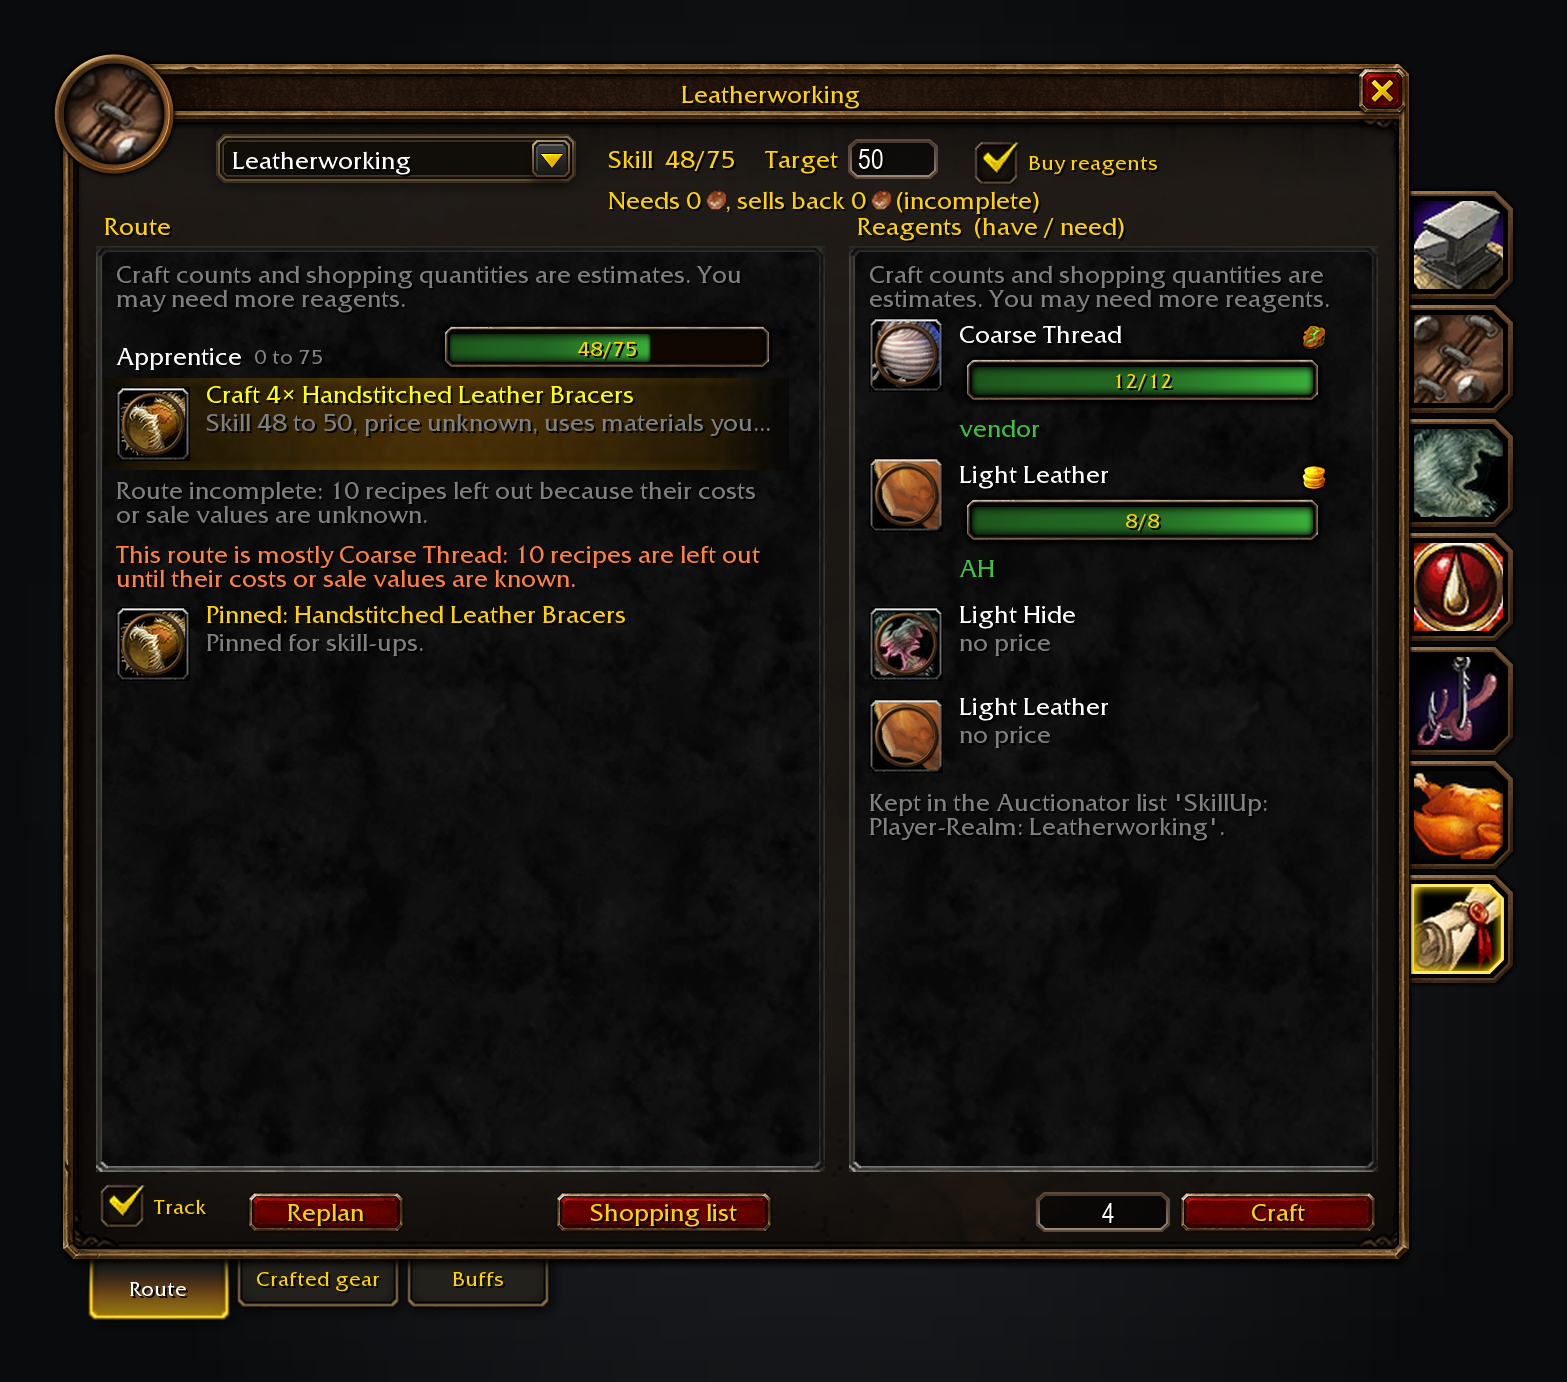
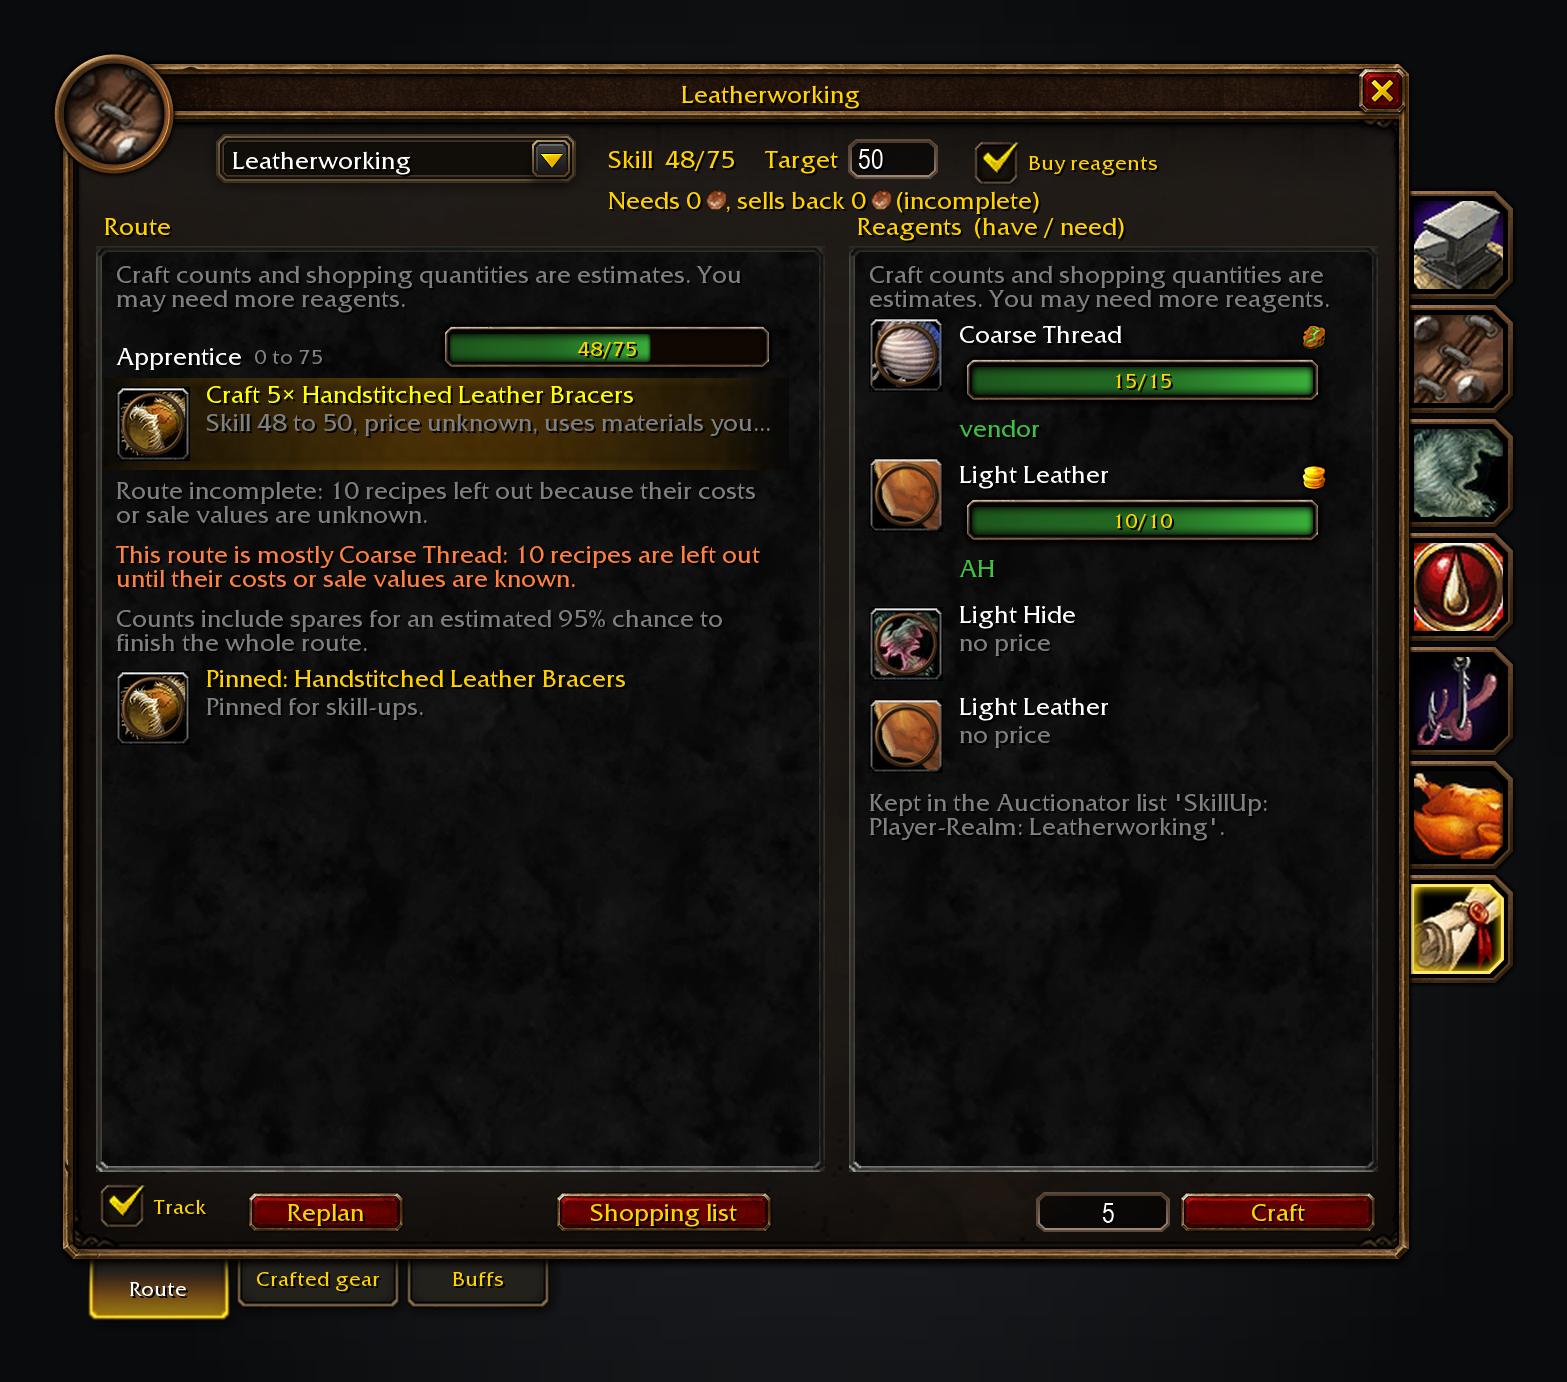
chore: refresh route renders after main merge
Regenerate all screenshot renders and source fingerprints with the pinned
tools. Keep the released settings notes under their release heading.

Changed region(s): [[0.0613, 0.4356, 0.4595, 0.5601], [0.7352, 0.3734, 0.7658, 0.4045]]

diff --git a/CHANGELOG.md b/CHANGELOG.md
@@ -13,8 +13,7 @@ optional `### For addon authors` subsection after a version's player bullets.
 ## [Unreleased]
 
 - **Reagent counts cover the whole route, not each step alone.** Every step's craft budget is chosen together so the route finishes 95 times in 100 from what you already hold, at the least reagent purchase cost. The route and shopping list say the counts include spares for that estimate, and a held reagent is counted once across the steps that use it. An optional restock visit cost, off by default, lets a trip to buy more after a shortfall change where the spare crafts go (#563).
-- **Minimap button:** Show or hide the SkillUp minimap button in the addon settings. (#759)
-- **Recipe prices:** "Money on recipe rows" has an Off choice, which hides prices on recipe rows and keeps the skill-up chances. (#760)
+
 ## [1.13.0] - 2026-11-16
 
 <!-- discord-image: docs/screenshots/window.png -->
